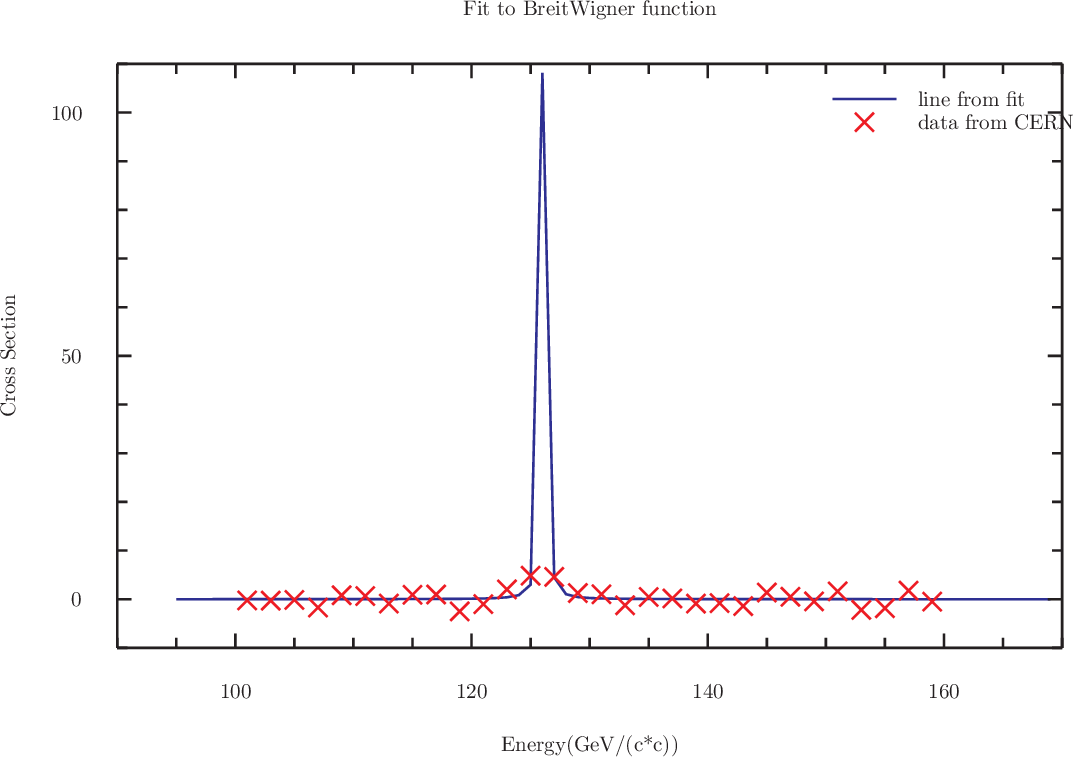
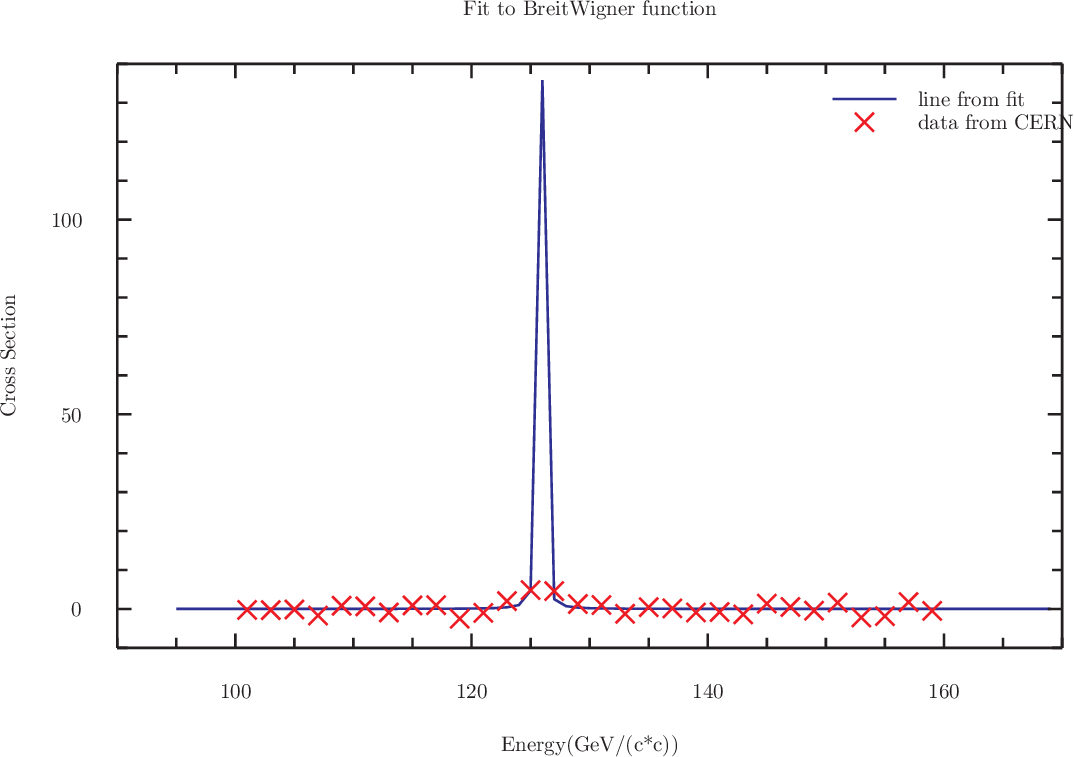
Initial commit

diff --git a/homework/Minimization/main.c b/homework/Minimization/main.c
@@ -54,9 +54,9 @@ printf("Det blev gjort på %i skridt\n\n",stepsH);
 printf("OPGAVE B Berit-Wigner\n\n");
 //Berit-Wigner
 gsl_vector* B=gsl_vector_calloc(3);
-gsl_vector_set(B,0,120);gsl_vector_set(B,1,0.02);gsl_vector_set(B,2,2);
+gsl_vector_set(B,0,124);gsl_vector_set(B,1,0.01);gsl_vector_set(B,2,1);
 vector_print("Vi prøver nu at fitte til Berit Wigner, hvor vores start gæt er",B);
-stepsB=qnewton(deviation_function,B,0.0001);
+stepsB=qnewton(deviation_function,B,0.00001);
 vector_print("Det minimum jeg finder for Berit Wigner er følgende(Hvor vi har mass,width,A)",B);
 printf("Dette blev opnået på %i skridt\n",stepsB);
 printf("Vi har fået oplyst i opgaven at CERN fandt den til 125.3(6), så vi er meget tilfredse med dette resultat\n");
